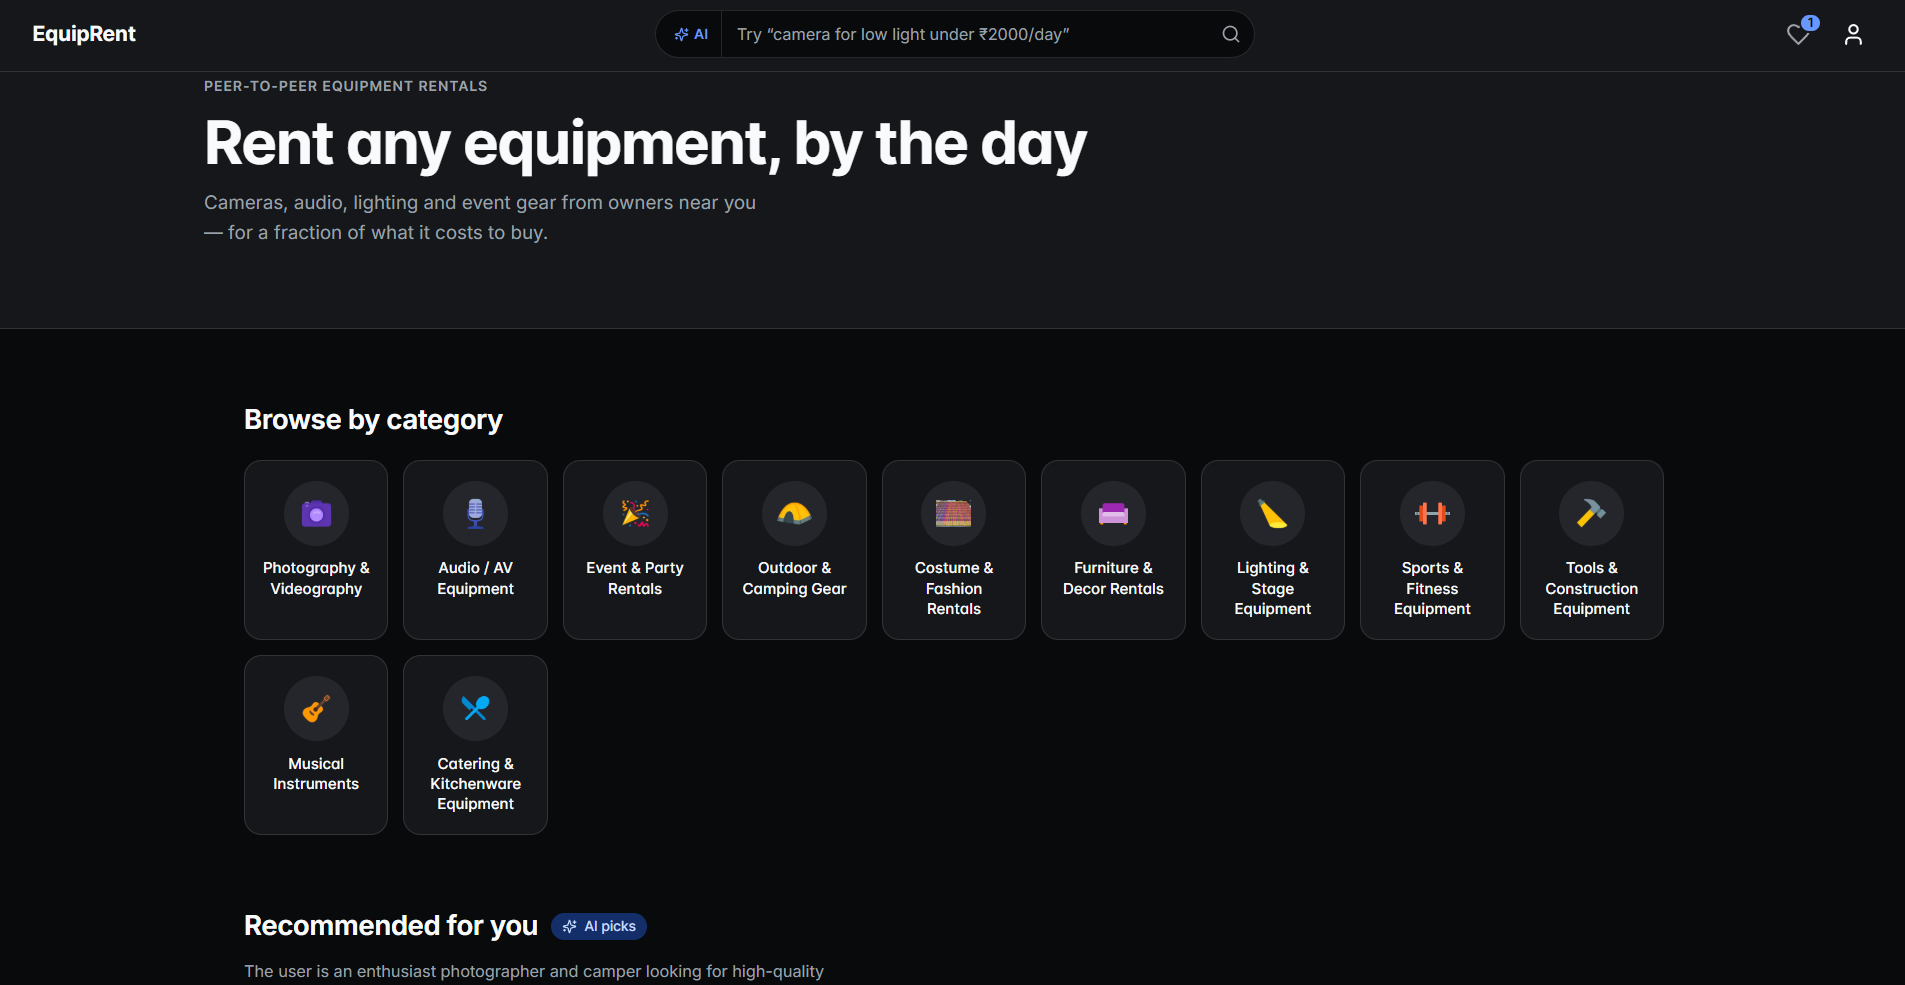
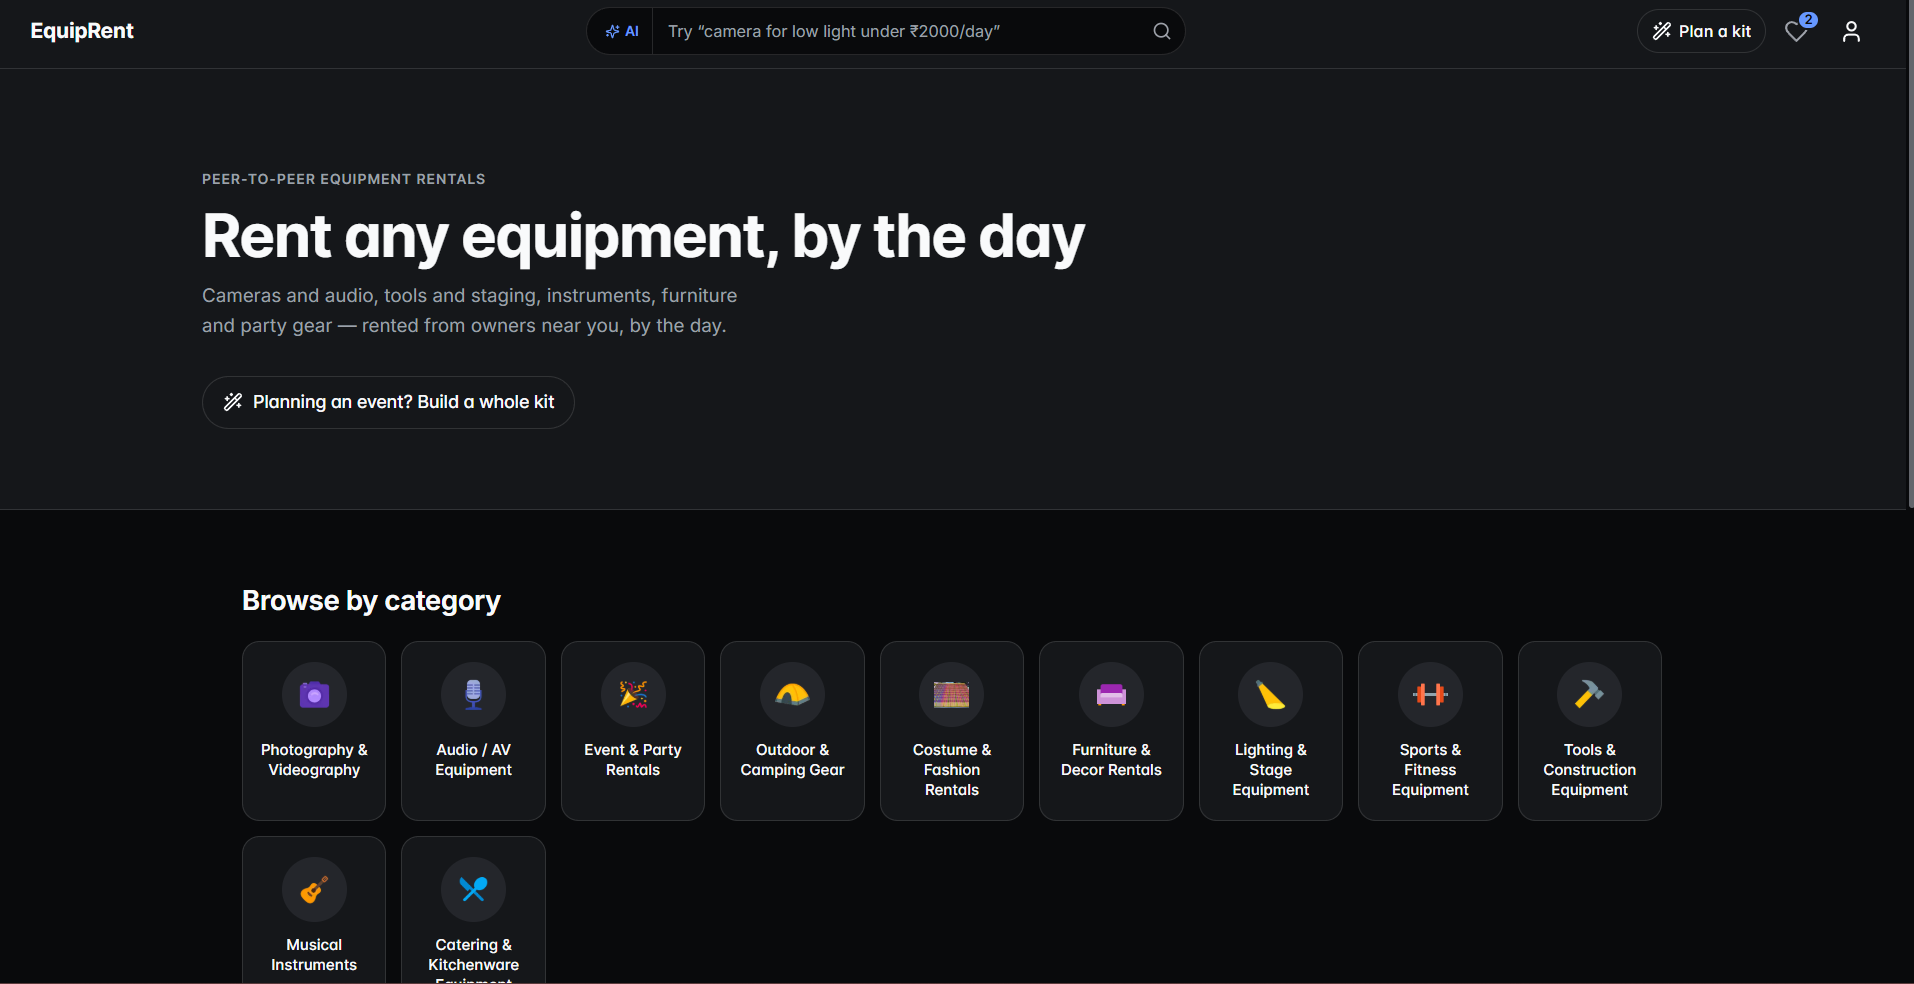
equip feature update

diff --git a/app/data/constants.ts b/app/data/constants.ts
@@ -48,7 +48,7 @@ export const capabilities: readonly Capability[] = [
     claim: "One slot, one booking.",
     title: "Booking and subscriptions",
     proof:
-      "A Redis-cached booking backend with idempotent booking logic and BullMQ job processing, plus a subscription lifecycle with overdue auto-cancellation and PDF invoicing.",
+      "A rental backend that derives availability from the bookings themselves instead of a counter that can drift, with Redis caching and BullMQ job processing, plus a subscription lifecycle with overdue auto-cancellation and PDF invoicing.",
   },
   {
     claim: "A provider goes down, the request still lands.",
@@ -327,11 +327,11 @@ export const projects: readonly Project[] = [
     slug: "equipment-rental-platform",
     title: "AI-Powered Equipment Rental Platform",
     summary:
-      "A peer-to-peer rental marketplace where the search is a language model and the booking path is idempotent.",
+      "A peer-to-peer rental marketplace that works out what is free from the bookings themselves, and turns an event brief into a priced, bookable kit.",
     description:
-      "A marketplace for renting equipment between people, built end to end. An AI recommendation engine uses view history and booking categories to surface listings a renter is likely to want. Natural language search runs through LangChain orchestrating the Gemini API, converting a free-text query into structured MongoDB filters so nobody has to work a filter sidebar. Behind it, a Redis-cached booking backend with idempotent booking logic and BullMQ job processing.",
+      "A marketplace for renting cameras, audio gear and event equipment between people by the day, built end to end. Availability is never stored as a stock count — every request expands the overlapping bookings into per-day usage and takes the peak across the window asked for, so the calendar greys out the days that are genuinely taken and a clash comes back naming the first day that is short. A kit builder turns a brief like “outdoor wedding, 200 guests, evening” into a list that can be booked as one order: Gemini only ever picks ids and quantities out of a candidate set the server has already filtered to what is free on those dates, and every line it returns is re-checked against real stock and re-priced server-side, so nothing un-bookable reaches the screen. Search works the same way round — the real category tree goes into the prompt and anything the model invents is dropped, then results are scored by field weight rather than returned in collection order, with a price filter sorting only inside the relevance band. The booking lifecycle is a declarative table of who may move a booking where, and the API hands each side the actions that are legal for it, so the renter’s cancel button and the owner’s accept button come from the same rules the server enforces. One server-side function decides every price and the client asks for it instead of repeating the arithmetic, after a three-day rental was quoted at ₹9,500 and written as ₹19,500. On the owner side the platform reads its own failures back: searches that returned nothing are kept and aggregated into what to list next, and the insights API refuses to print a price benchmark below three comparable listings rather than dressing up noise as advice. Pickup, return and overdue reminders run on an hourly cron with the notification key written onto the booking document instead of a cache, and transactional email goes through a BullMQ queue after a blocking send once made already-created bookings report failure.",
     hardPart:
-      "Booking is a concurrency problem wearing a form's clothing. Two renters can hit the same slot in the same second, and a client that retries a request it thinks failed must not end up holding two reservations. The booking path is keyed so a repeat of the same intent resolves to the same reservation, and the slow work — confirmations, notifications — runs off a BullMQ queue, which keeps the response fast without letting the state drift.",
+      "Rentals overlap in ranges rather than points and a listing can hold five units, so availability is a partly-available interval, not a number to decrement. There was a stock counter in the schema when I started and nothing ever decremented it — the single guard that read it never fired, because the field name was misspelled. That is the argument against counters in one line, so availability is now derived on every read: the overlapping booking lines are expanded into per-day usage and the peak across the requested window is subtracted from the total. Summing the overlaps instead would have been shorter and wrong — two bookings at either end of a long window never actually coincide, so summing refuses dates that are free. Every path that writes a booking goes through that one gate, and it answers with the day that is short rather than just failing.",
     image: "/equipment_rental.png",
     stack: [
       "Next.js",
@@ -341,7 +341,7 @@ export const projects: readonly Project[] = [
       "MongoDB",
       "Redis",
       "BullMQ",
-      "LangChain",
+      "Zod",
       "Gemini API",
       "Google OAuth",
     ],

diff --git a/app/work/page.tsx b/app/work/page.tsx
@@ -18,7 +18,7 @@ import { workIndexStructuredData } from "@/lib/structured-data";
 import styles from "./page.module.css";
 
 const description =
-  "A rental marketplace with language-model search and an idempotent booking path, a personal finance app that forecasts a month in flight and lets a model explain the figures but never compute them, a gateway that masks PII before prompts reach OpenAI or Gemini, and real-time messaging on the MERN stack.";
+  "A rental marketplace that derives availability from its own bookings and plans a whole event kit from a sentence, a personal finance app that forecasts a month in flight and lets a model explain the figures but never compute them, a gateway that masks PII before prompts reach OpenAI or Gemini, and real-time messaging on the MERN stack.";
 
 export const metadata: Metadata = {
   title: "Work",

diff --git a/app/page.tsx b/app/page.tsx
@@ -62,7 +62,7 @@ export default function Home() {
           <SectionHeading
             id="work-heading"
             title="Selected work"
-            description="Four builds worth reading about: a marketplace where the search is a language model, a finance app that knows when it does not have enough history to answer, a gateway that has to be trusted with other people's data, and a chat that has to stay connected."
+            description="Four builds worth reading about: a marketplace that works out what is free from its own bookings, a finance app that knows when it does not have enough history to answer, a gateway that has to be trusted with other people's data, and a chat that has to stay connected."
             aside={
               <Link className="link" href="/work">
                 All work
